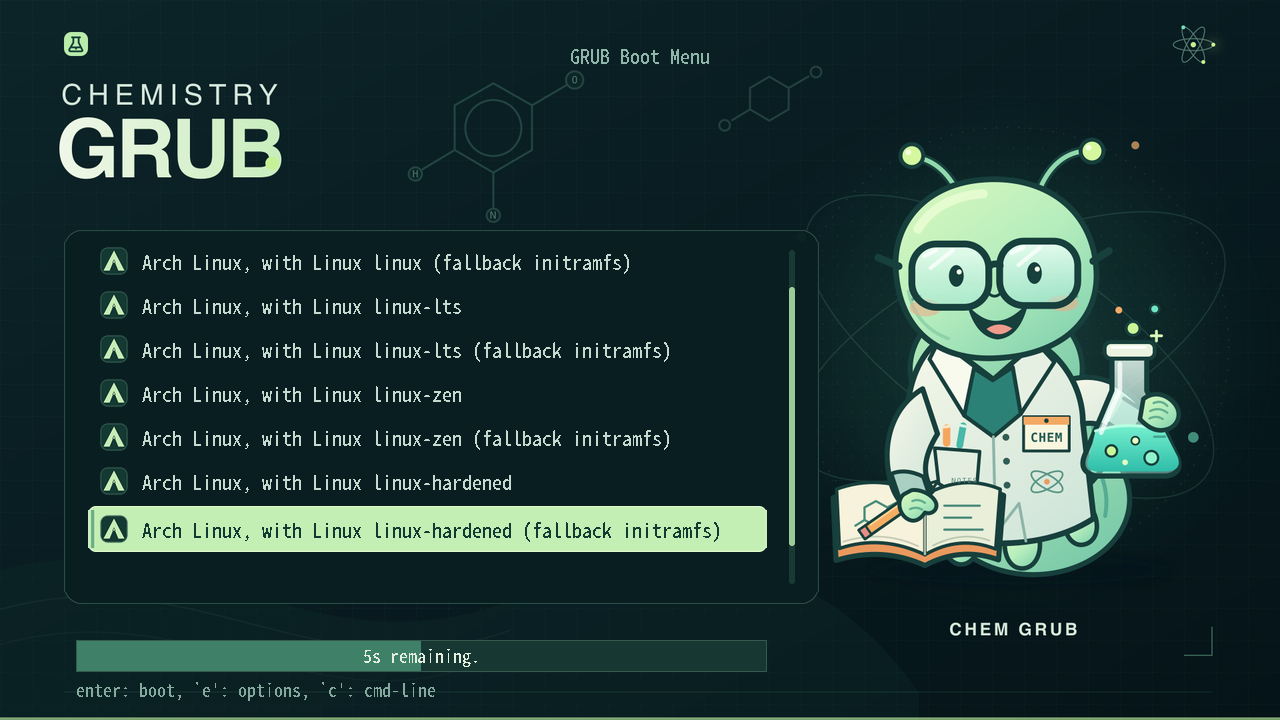
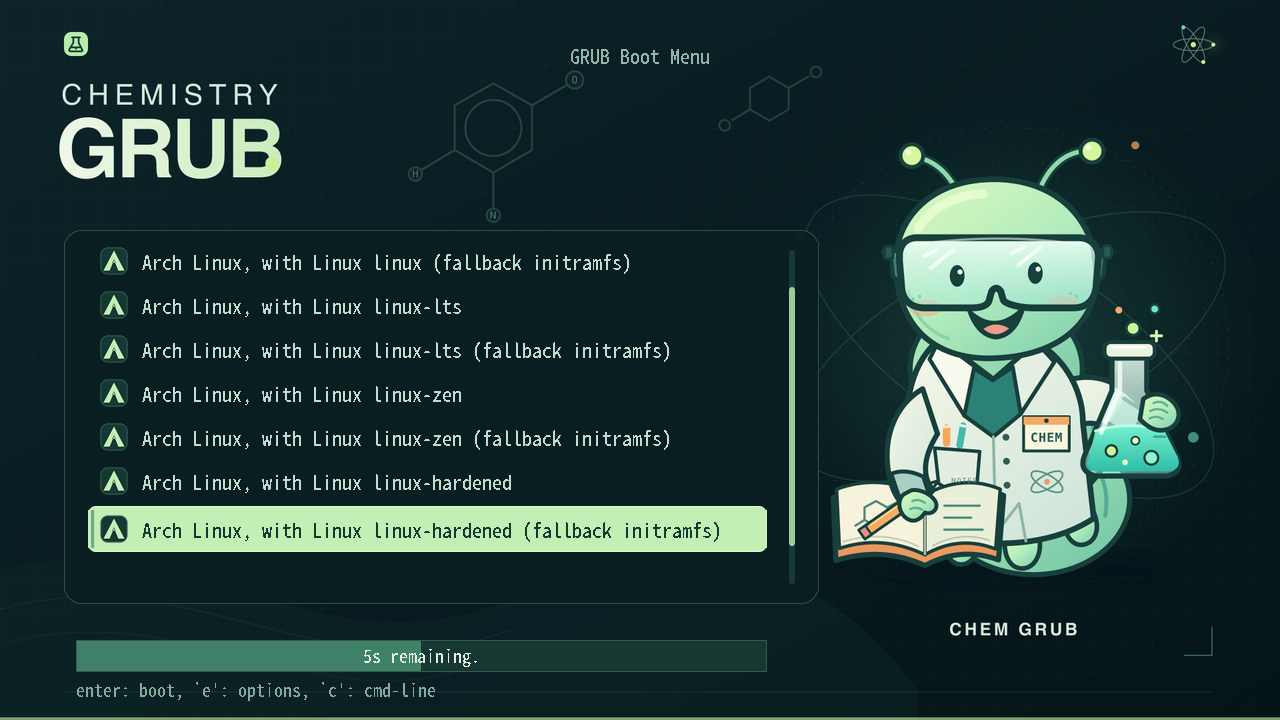
Align Chem Grub goggles and facial features

Changed region(s): [[0.6875, 0.3056, 0.875, 0.4583]]

diff --git a/CHANGELOG.md b/CHANGELOG.md
@@ -3,6 +3,15 @@
 All notable changes to Chemistry GRUB will be documented here. The project
 follows semantic versioning.
 
+## [Unreleased]
+
+### Changed
+
+- Refined the mascot's eyewear into one-piece laboratory safety goggles with
+  side shields and a head strap.
+- Aligned the goggle bridge, eye midpoint, and mouth on the mascot's vertical
+  centerline.
+
 ## [1.0.0] - 2026-10-19
 
 ### Added
